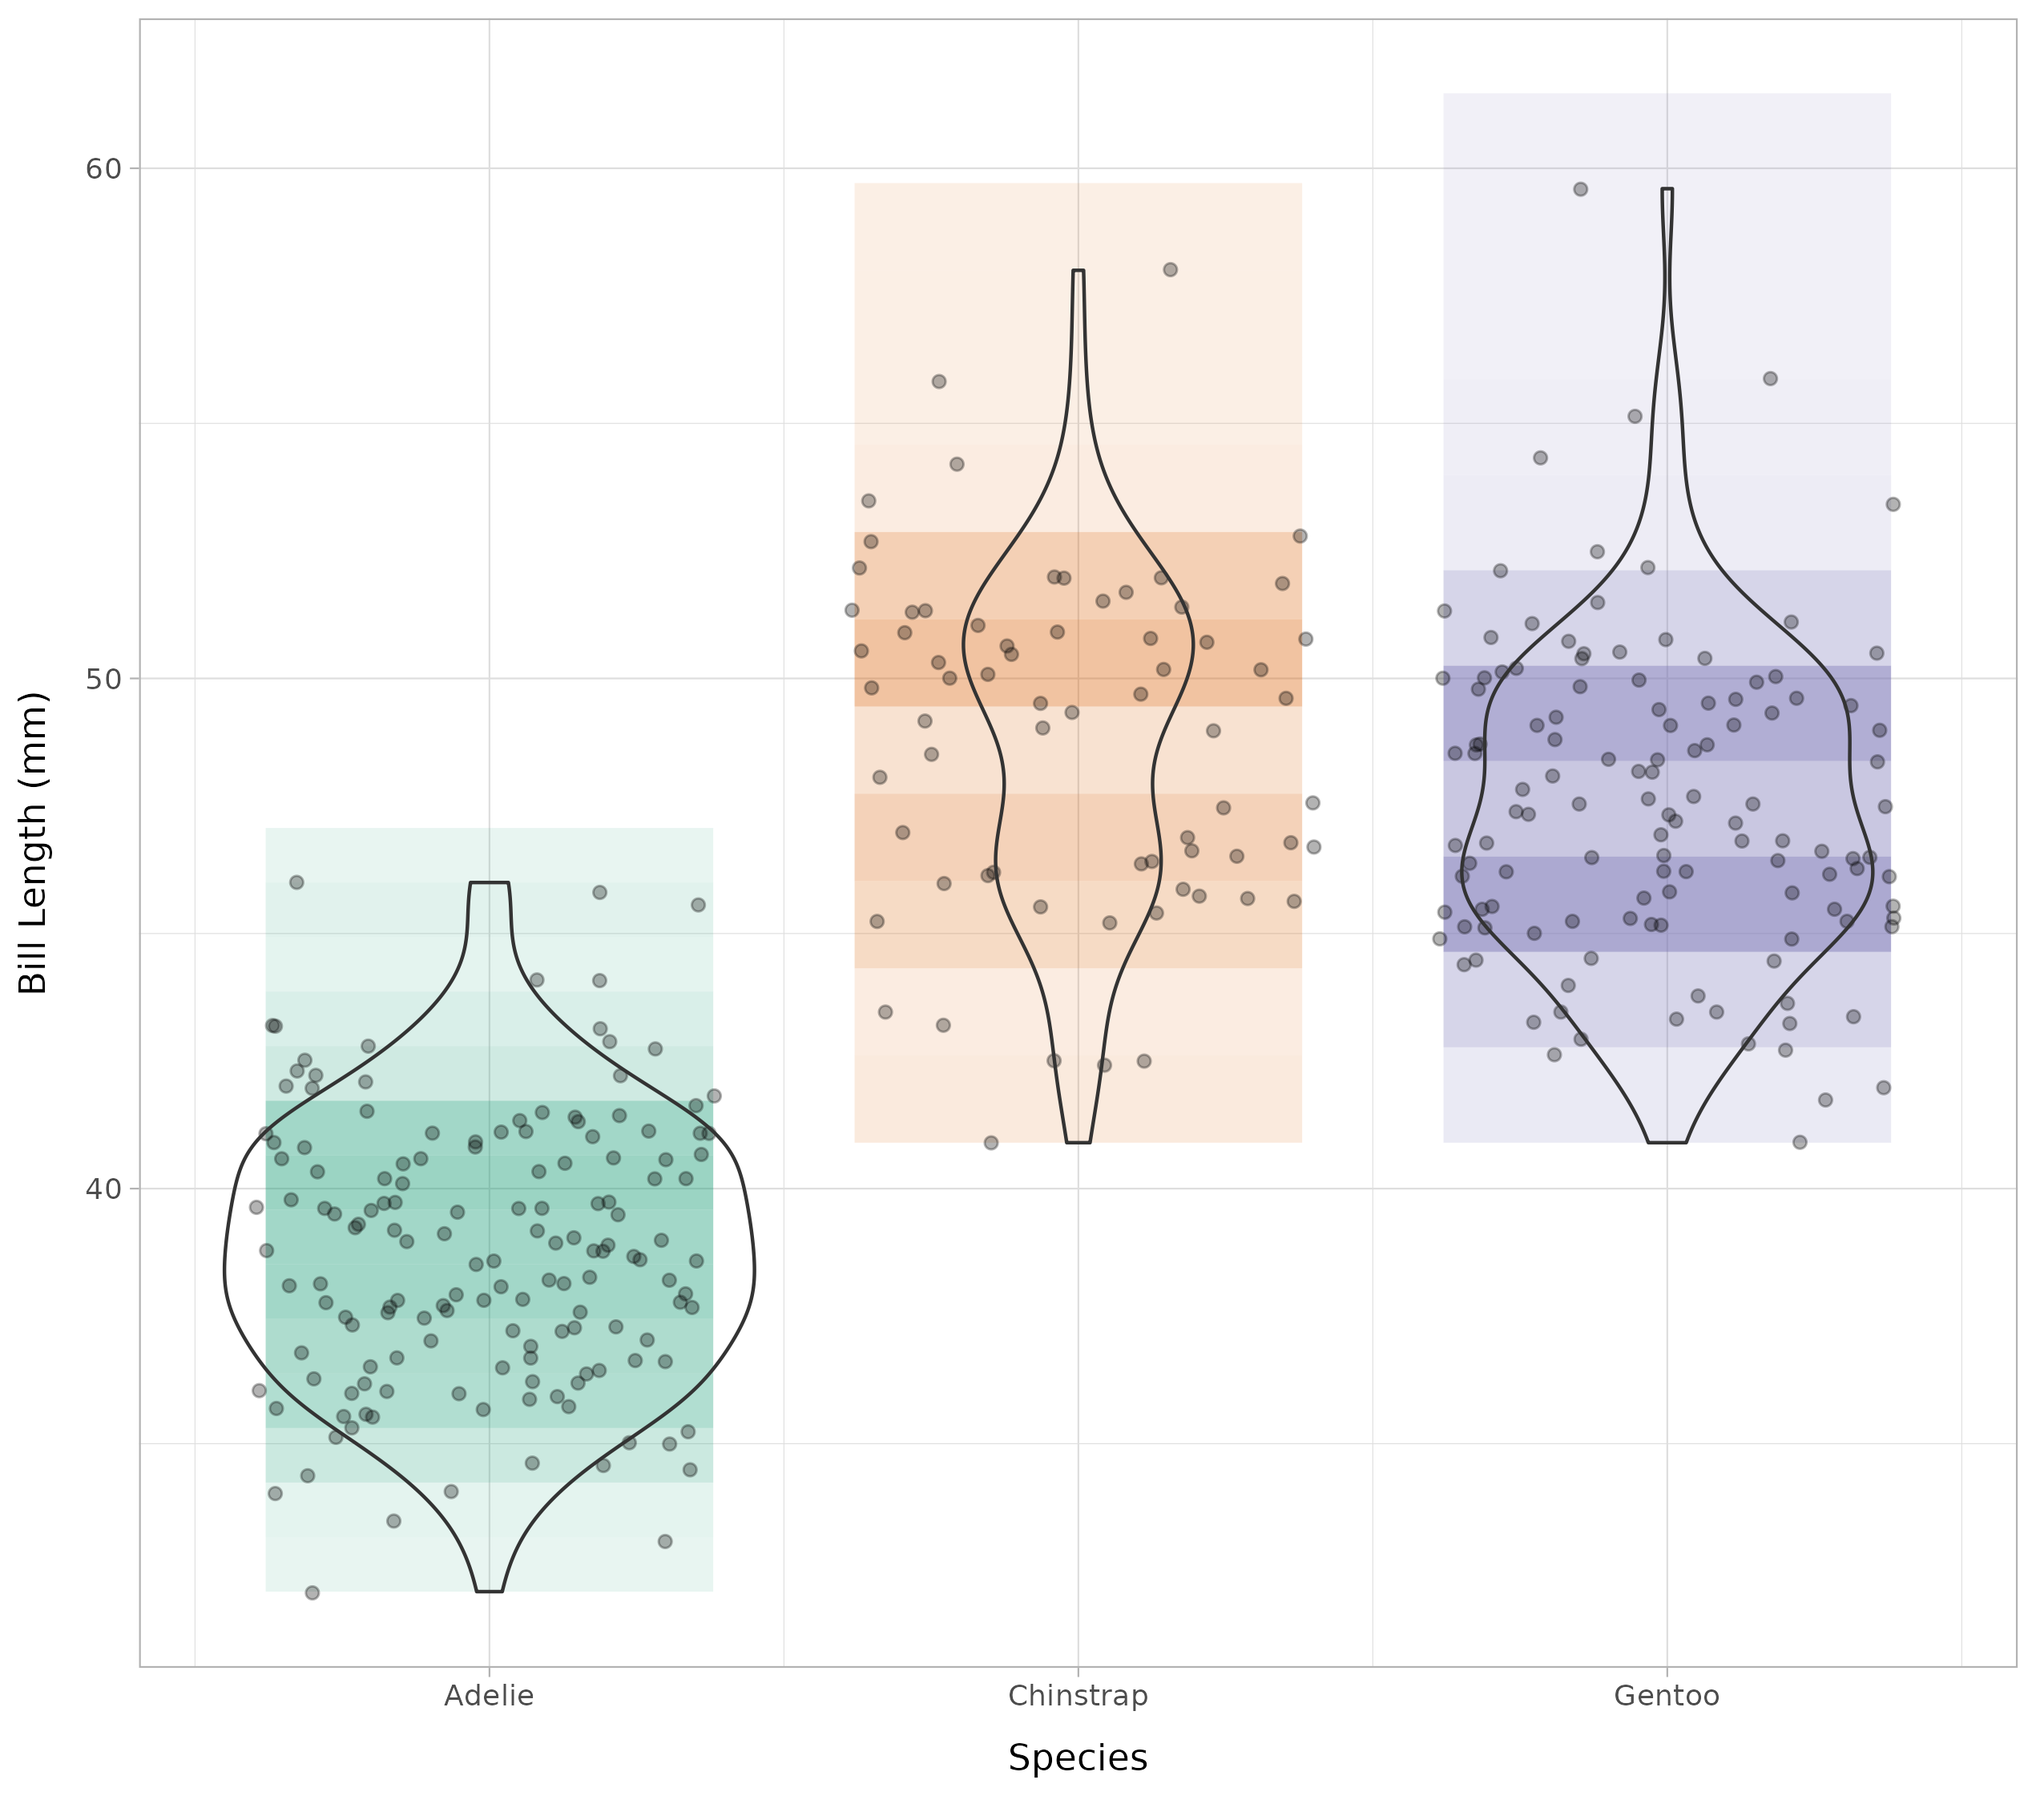
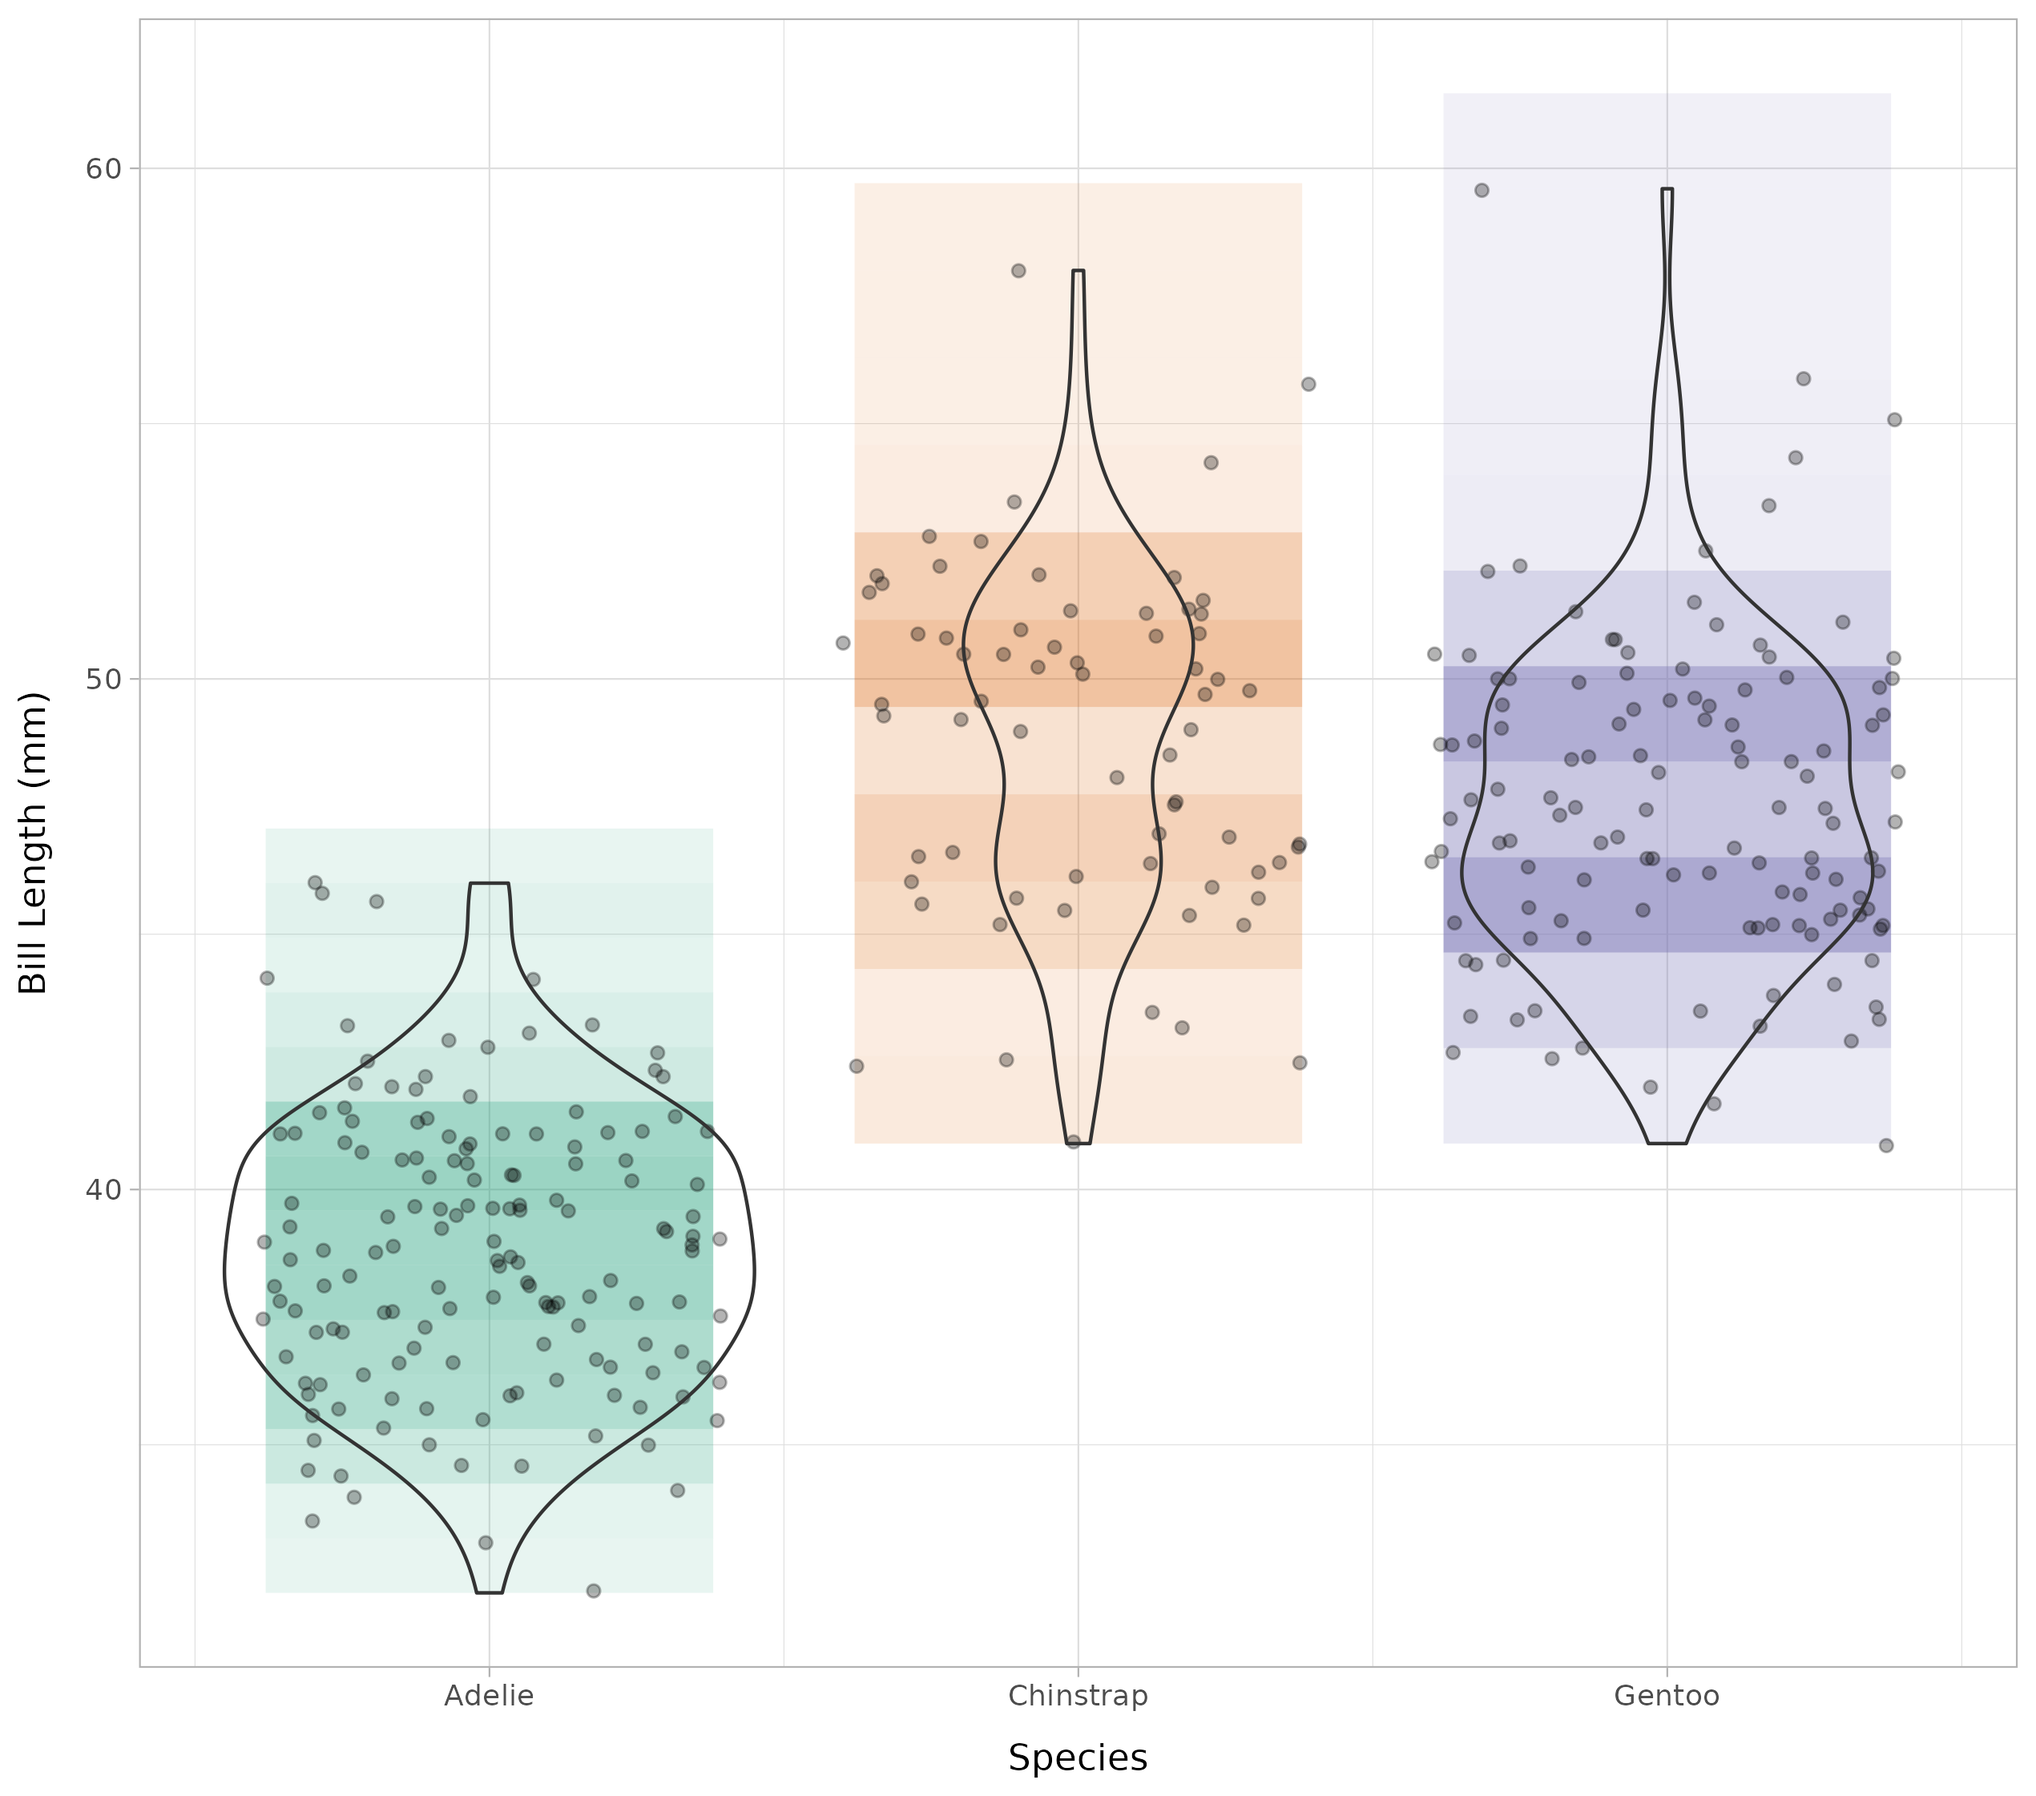
the right way with ggdist

diff --git a/README.md b/README.md
@@ -1,8 +1,6 @@
 elevator rug box plot thing…
 ================
 
-Here’s an example of what it does…
-
 ``` r
 #load packages
 library(palmerpenguins)
@@ -10,6 +8,40 @@ library(ggplot2)
 library(dplyr)
 library(tidyr)
 library(ggdist)
+#load functions
+```
+
+This is the correct way to do this using ggdist
+
+``` r
+penguins %>%
+  ggplot(aes(x = species, y = bill_length_mm, fill = species)) +
+  stat_gradientinterval(position = "dodge", colour=NA, width=0.9) +
+  theme_light()+
+  labs(x='Species', y='Bill Length (mm)') +
+  guides(fill="none", alpha='none')+
+  theme(axis.title.y = element_text(margin = margin(t = 0, r = 10, b = 0, l = 0)),
+        axis.title.x = element_text(margin = margin(t = 10, r = 0, b = 0, l = 0)))+
+  scale_fill_brewer(palette = 'Dark2') +
+  ggdist::stat_halfeye(adjust = .3, width = .3, .width = 0, justification = -.3,
+                       point_colour = 'NA', slab_fill=NA, slab_colour='black',
+                       slab_size=0.4) +
+  geom_boxplot(width = .15, outlier.shape = NA, fill=NA) +
+  ggdist::stat_dots(
+    side = "left",
+    dotsize = .8,
+    justification = 1.15,
+    binwidth = .3,
+    colour='black'
+  ) +
+  coord_cartesian(xlim = c(1, NA), clip = "off")
+```
+
+![](man/figures/penguinsCorrect-1.png)<!-- -->
+
+Here’s an example of what it does…
+
+``` r
 #load functions
 source('barcodeBoxPlot.R')
 # make the plot
